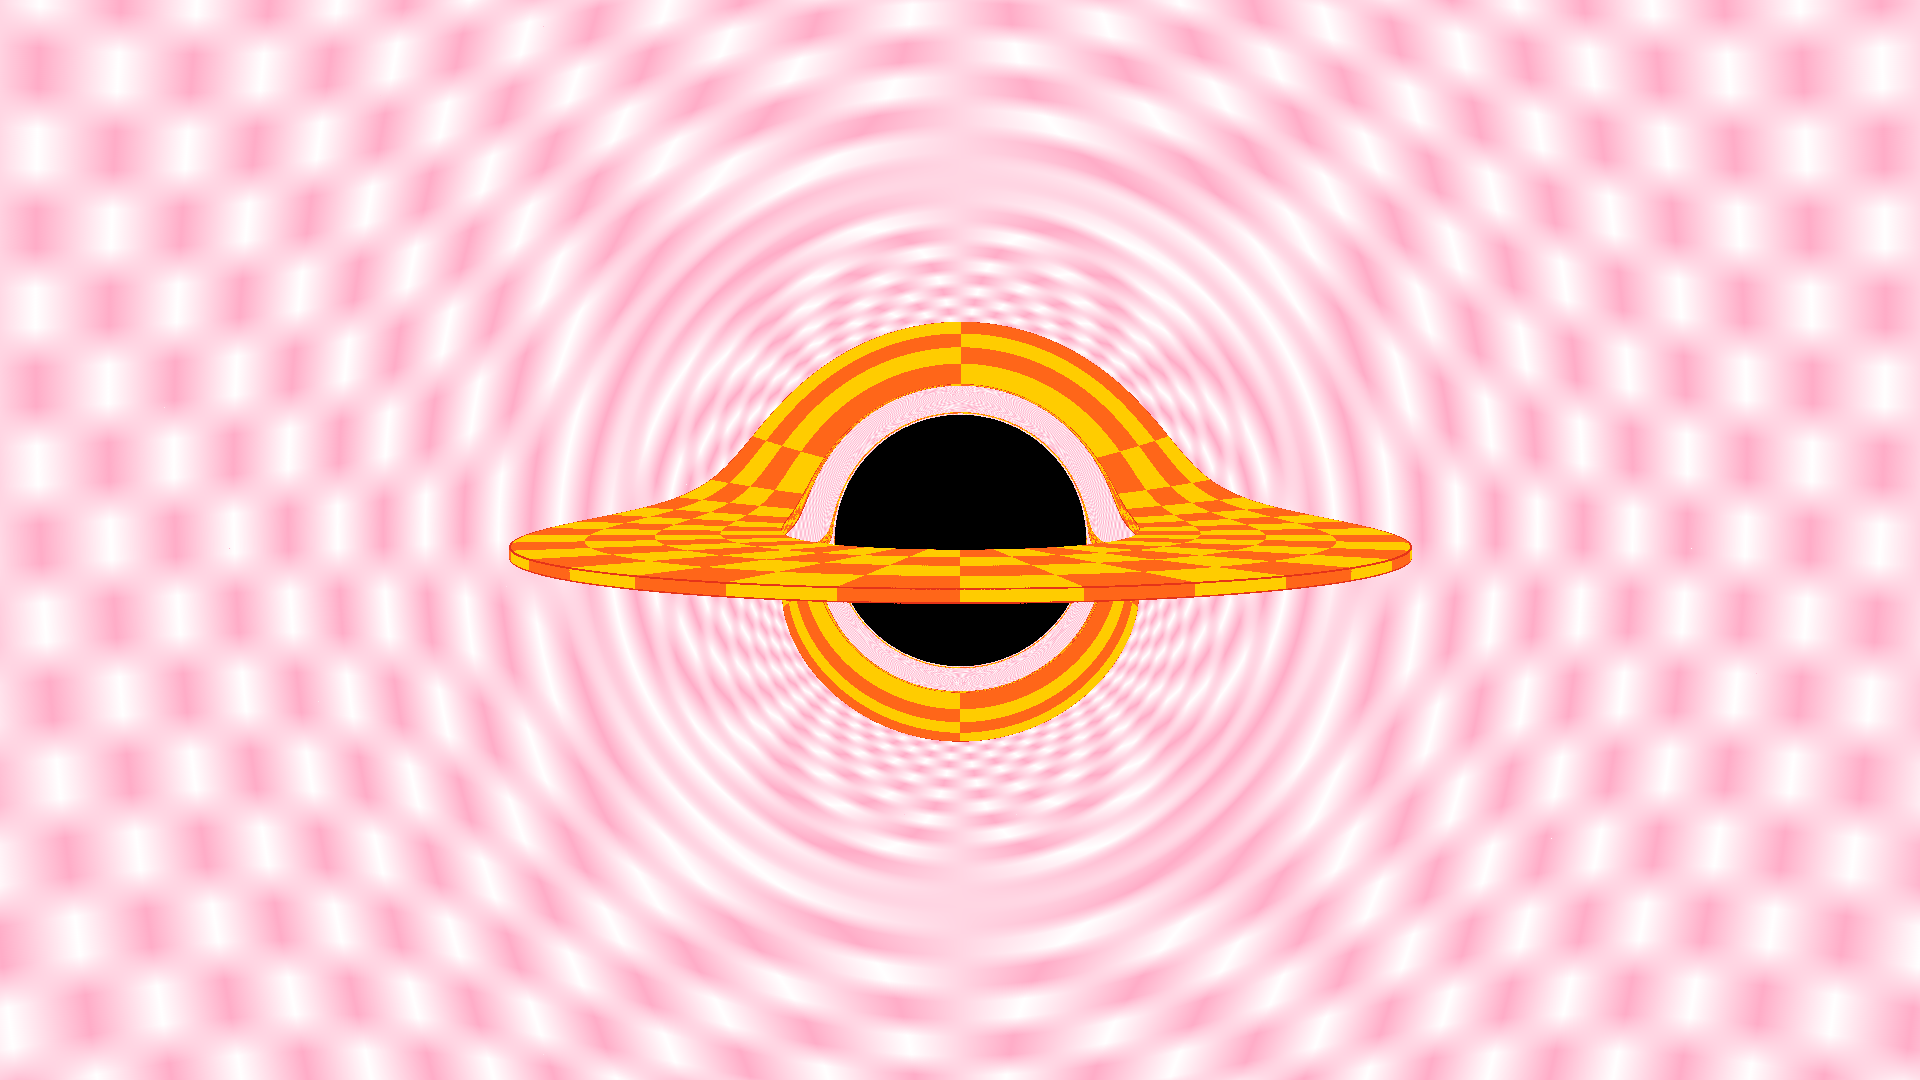
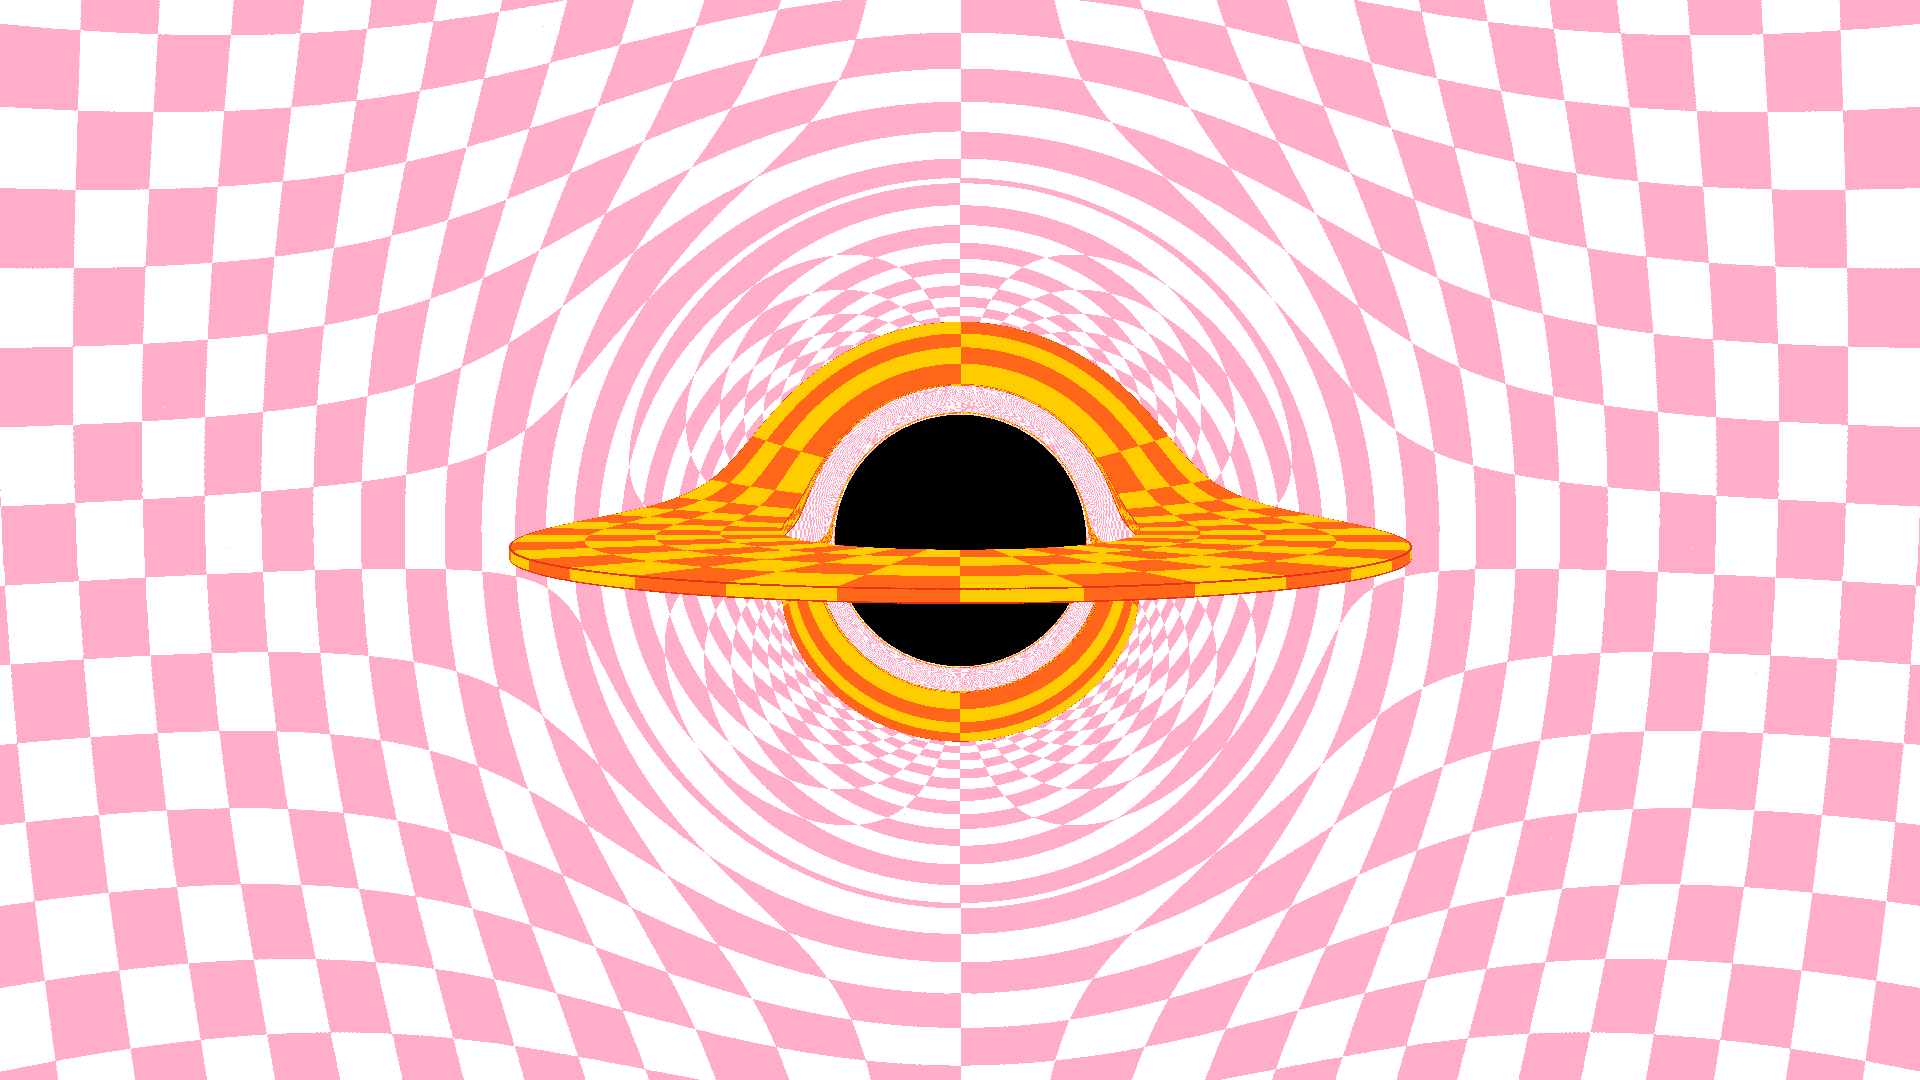
Add support for linear or nearest filter in textures

diff --git a/bh_testing/scene.py b/bh_testing/scene.py
@@ -58,7 +58,6 @@ class Scene:
     def load_texture(
         self,
         texture: Texture,
-        nearest: bool,
         channel: int,
     ) -> None:
         """
@@ -69,16 +68,13 @@ class Scene:
         texture : Texture
             The texture to load.
 
-        nearest : bool
-            Whether to use nearest neighbor interpolation.
-
         channel : int
             The channel to load the texture into.
         """
-        texture = texture.add_texture(self.ctx)
-        if nearest:
-            texture.filter = (moderngl.NEAREST, moderngl.NEAREST)
-        texture.use(channel)
+        moderngl_texture = texture.add_texture(self.ctx)
+        if texture.nearest:
+            moderngl_texture.filter = (moderngl.NEAREST, moderngl.NEAREST)
+        moderngl_texture.use(channel)
 
     def render(self) -> Image.Image:
         raise NotImplementedError(
@@ -108,7 +104,7 @@ class BlackHoleScene(Scene):
         """
         # Scene uniforms
         self.set_uniform('show_disk', self.black_hole.has_disk()) 
-        self.load_texture(self.background_texture, False, 1)
+        self.load_texture(self.background_texture, 1)
 
         # Camera uniforms
         self.set_uniform('camera_origin', self.camera.origin)
@@ -121,7 +117,7 @@ class BlackHoleScene(Scene):
             self.set_uniform('disk_inner_radius', self.black_hole.inner_radius)
             self.set_uniform('disk_outer_radius', self.black_hole.outer_radius)
             self.set_uniform('disk_half_thickness', 0.5*self.black_hole.thickness)
-            self.load_texture(self.black_hole.texture, True, 2)
+            self.load_texture(self.black_hole.texture, 2)
 
         # Black hole uniforms
         self.set_uniform('bh_radius', self.black_hole.radius)

diff --git a/bh_testing/texture.py b/bh_testing/texture.py
@@ -25,8 +25,12 @@ class Texture:
     ----------
     image_path: str | Path
         Path to the texture image.
+
+    nearest : bool
+        Whether to use nearest neighbor interpolation or linear interpolation.
     """
     image_path: str | Path
+    nearest: bool
 
     def add_texture(self, ctx: moderngl.Context) -> moderngl.Texture:
         """
@@ -39,23 +43,23 @@ class Texture:
         return ctx.texture(image.size, 4, image_data)
 
 
-PINK_BG = Texture(get_asset("pink_bg.png"))
+PINK_BG = Texture(get_asset("pink_bg.png"), True)
 """
 Texture object for a pink background.
 """
-MULTICOLOR_BG = Texture(get_asset("multicolor_bg.png"))
+MULTICOLOR_BG = Texture(get_asset("multicolor_bg.png"), True)
 """
 Texture object for a multicolor background.
 """
-ORIENTED_BG = Texture(get_asset("oriented_bg.png"))
+ORIENTED_BG = Texture(get_asset("oriented_bg.png"), False)
 """
 Texture object for an oriented (and multicolor) background.
 """
-LINES_BG = Texture(get_asset("lines_bg.png"))
+LINES_BG = Texture(get_asset("lines_bg.png"), False)
 """
 Texture object for a multicolor grid with white lines.
 """
-ORANGE_DISK = Texture(get_asset("orange_disk.png"))
+ORANGE_DISK = Texture(get_asset("orange_disk.png"), True)
 """
 Texture object for an orange disk.
 """
